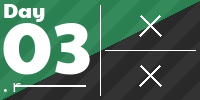
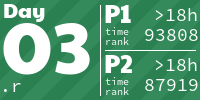
day3

diff --git a/AoCTiles/.aoc_tiles_cache/leaderboard2022.html b/AoCTiles/.aoc_tiles_cache/leaderboard2022.html
@@ -88,15 +88,16 @@ If you'd like to hang out, I'm @ericwastl on Twitter.
 
 -->
 <body>
-<header><div><h1 class="title-global"><a href="/">Advent of Code</a></h1><nav><ul><li><a href="/2022/about">[About]</a></li><li><a href="/2022/events">[Events]</a></li><li><a href="https://teespring.com/stores/advent-of-code" target="_blank">[Shop]</a></li><li><a href="/2022/settings">[Settings]</a></li><li><a href="/2022/auth/logout">[Log Out]</a></li></ul></nav><div class="user">Andrew Davis <span class="star-count">4*</span></div></div><div><h1 class="title-event">&nbsp;&nbsp;&nbsp;&nbsp;&nbsp;&nbsp;&nbsp;<span class="title-event-wrap">Î»y.</span><a href="/2022">2022</a><span class="title-event-wrap"></span></h1><nav><ul><li><a href="/2022">[Calendar]</a></li><li><a href="/2022/support">[AoC++]</a></li><li><a href="/2022/sponsors">[Sponsors]</a></li><li><a href="/2022/leaderboard">[Leaderboard]</a></li><li><a href="/2022/stats">[Stats]</a></li></ul></nav></div></header>
+<header><div><h1 class="title-global"><a href="/">Advent of Code</a></h1><nav><ul><li><a href="/2022/about">[About]</a></li><li><a href="/2022/events">[Events]</a></li><li><a href="https://teespring.com/stores/advent-of-code" target="_blank">[Shop]</a></li><li><a href="/2022/settings">[Settings]</a></li><li><a href="/2022/auth/logout">[Log Out]</a></li></ul></nav><div class="user">Andrew Davis <span class="star-count">6*</span></div></div><div><h1 class="title-event">&nbsp;&nbsp;&nbsp;<span class="title-event-wrap">0xffff&amp;</span><a href="/2022">2022</a><span class="title-event-wrap"></span></h1><nav><ul><li><a href="/2022">[Calendar]</a></li><li><a href="/2022/support">[AoC++]</a></li><li><a href="/2022/sponsors">[Sponsors]</a></li><li><a href="/2022/leaderboard">[Leaderboard]</a></li><li><a href="/2022/stats">[Stats]</a></li></ul></nav></div></header>
 
 <div id="sidebar">
-<div id="sponsor"><div class="quiet">Our <a href="/2022/sponsors">sponsors</a> help make Advent of Code possible:</div><div class="sponsor"><a href="https://www.hetzner.com/cloud?pk_campaign=adventofcode22&amp;pk_source=adventofcode&amp;pk_medium=website&amp;pk_content=aoc22-sponsor" target="_blank" onclick="if(ga)ga('send','event','sponsor','sidebar',this.href);" rel="noopener">Hetzner</a> - Create your server in seconds &amp; bring your coding vision to life!</div></div>
+<div id="sponsor"><div class="quiet">Our <a href="/2022/sponsors">sponsors</a> help make Advent of Code possible:</div><div class="sponsor"><a href="https://it-jobs.de/?sta_cmp=advent2022" target="_blank" onclick="if(ga)ga('send','event','sponsor','sidebar',this.href);" rel="noopener">it-jobs.de</a> - designed with love for IT ..&quot;&quot;&quot;.....&quot;&quot;&quot; .&quot;....&quot;.&quot;....&quot; .&quot;.....&quot;.....&quot; ..&quot;.........&quot; ...&quot;.......&quot; .....&quot;...&quot; .......&quot;</div></div>
 </div><!--/sidebar-->
 
 <main>
 <article><p>These are your personal leaderboard statistics.  <em>Rank</em> is your position on that leaderboard: 1 means you were the first person to get that star, 2 means the second, 100 means the 100th, etc.  <em>Score</em> is the number of points you got for that rank: 100 for 1st, 99 for 2nd, ..., 1 for 100th, and 0 otherwise.</p><pre>      <span class="leaderboard-daydesc-first">--------Part 1--------</span>   <span class="leaderboard-daydesc-both">--------Part 2--------</span>
 Day   <span class="leaderboard-daydesc-first">    Time   Rank  Score</span>   <span class="leaderboard-daydesc-both">    Time   Rank  Score</span>
+  3   18:39:35  93808      0   18:51:26  87919      0
   2   10:46:59  83786      0   10:54:19  77700      0
   1   07:36:39  55489      0   07:41:12  52534      0
 </pre>

diff --git a/AoCTiles/.aoc_tiles_cache/leaderboard2021.html b/AoCTiles/.aoc_tiles_cache/leaderboard2021.html
@@ -88,10 +88,10 @@ If you'd like to hang out, I'm @ericwastl on Twitter.
 
 -->
 <body>
-<header><div><h1 class="title-global"><a href="/">Advent of Code</a></h1><nav><ul><li><a href="/2021/about">[About]</a></li><li><a href="/2021/events">[Events]</a></li><li><a href="https://teespring.com/stores/advent-of-code" target="_blank">[Shop]</a></li><li><a href="/2021/settings">[Settings]</a></li><li><a href="/2021/auth/logout">[Log Out]</a></li></ul></nav><div class="user">Andrew Davis <span class="star-count">20*</span></div></div><div><h1 class="title-event">&nbsp;&nbsp;<span class="title-event-wrap">{year=&gt;</span><a href="/2021">2021</a><span class="title-event-wrap">}</span></h1><nav><ul><li><a href="/2021">[Calendar]</a></li><li><a href="/2021/support">[AoC++]</a></li><li><a href="/2021/sponsors">[Sponsors]</a></li><li><a href="/2021/leaderboard">[Leaderboard]</a></li><li><a href="/2021/stats">[Stats]</a></li></ul></nav></div></header>
+<header><div><h1 class="title-global"><a href="/">Advent of Code</a></h1><nav><ul><li><a href="/2021/about">[About]</a></li><li><a href="/2021/events">[Events]</a></li><li><a href="https://teespring.com/stores/advent-of-code" target="_blank">[Shop]</a></li><li><a href="/2021/settings">[Settings]</a></li><li><a href="/2021/auth/logout">[Log Out]</a></li></ul></nav><div class="user">Andrew Davis <span class="star-count">20*</span></div></div><div><h1 class="title-event">&nbsp;&nbsp;<span class="title-event-wrap">0.0.0.0:</span><a href="/2021">2021</a><span class="title-event-wrap"></span></h1><nav><ul><li><a href="/2021">[Calendar]</a></li><li><a href="/2021/support">[AoC++]</a></li><li><a href="/2021/sponsors">[Sponsors]</a></li><li><a href="/2021/leaderboard">[Leaderboard]</a></li><li><a href="/2021/stats">[Stats]</a></li></ul></nav></div></header>
 
 <div id="sidebar">
-<div id="sponsor"><div class="quiet">Our <a href="/2021/sponsors">sponsors</a> help make Advent of Code possible:</div><div class="sponsor"><a href="https://ximedes.com/working-at-ximedes/" target="_blank" onclick="if(ga)ga('send','event','sponsor','sidebar',this.href);" rel="noopener">Ximedes</a> - From Kotlin in the cloud to NodeJS in the terminal, our software powers payments and public transport ticketing all over the world.</div></div>
+<div id="sponsor"><div class="quiet">Our <a href="/2021/sponsors">sponsors</a> help make Advent of Code possible:</div><div class="sponsor"><a href="https://sectorlabs.ro" target="_blank" onclick="if(ga)ga('send','event','sponsor','sidebar',this.href);" rel="noopener">SECTOR LABS</a> - We do large classifieds websites. Hiring Py3/React in the EU.</div></div>
 </div><!--/sidebar-->
 
 <main>

diff --git a/AoCTiles/create_aoc_tiles.py b/AoCTiles/create_aoc_tiles.py
@@ -176,13 +176,12 @@ def find_recursive_solution_files(directory: Path) -> list[Path]:
     solution_paths = []
     #print(directory.glob('*/*'))
     for path in directory.glob('*/*'):
-        print(extension_to_color)
-        print(path)
-        print(path.suffix)
-        print('ipynb' in extension_to_color)
-        print(path.suffix in extension_to_color)
+        #print(extension_to_color)
+        #print(path)
+        #print(path.suffix)
+        #print(path.suffix in extension_to_color)
         if path.is_file() and path.suffix in extension_to_color:
-            print(path)
+            #print(path)
             solution_paths.append(path)
     return solution_paths
 
@@ -379,7 +378,7 @@ def fill_empty_days_in_dict(day_to_solutions: dict[int, list[str]], max_day) -> 
 
 def handle_year(year: int, day_to_solutions: dict[int, list[str]]):
     leaderboard = request_leaderboard(year)
-    print(leaderboard)
+    #print(leaderboard)
     if DEBUG:
         leaderboard[25] = None
         leaderboard[24] = DayScores("22:22:22", "12313", "0")
@@ -408,7 +407,7 @@ def handle_year(year: int, day_to_solutions: dict[int, list[str]]):
 
 def main():
     for year, day_to_solutions_list in get_solution_paths_dict_for_years().items():
-        print(day_to_solutions_list)
+        #print(day_to_solutions_list)
         print(f"=== Generating table for year {year} ===")
         handle_year(year, day_to_solutions_list)
 

diff --git a/README.md b/README.md
@@ -3,7 +3,7 @@ My solutions for each of the days of advent of code
 
 I will default to doing the solutions in R but if I am feeling cheeky I will challenge myself to do them in python or another language.
 
-To makea jupyter notebook a python script.
+To make a jupyter notebook a python script.
 
 ```
 jupyter nbconvert --to script {PATHTOCODE}
@@ -11,7 +11,7 @@ jupyter nbconvert --to script {PATHTOCODE}
 
 <!-- AOC TILES BEGIN -->
 <h1 align="center">
-  2022 - 4 ⭐
+  2022 - 6 ⭐
 </h1>
 <a href="2022/01/code/01.r">
   <img src="Media/2022/01.png" width="161px">
